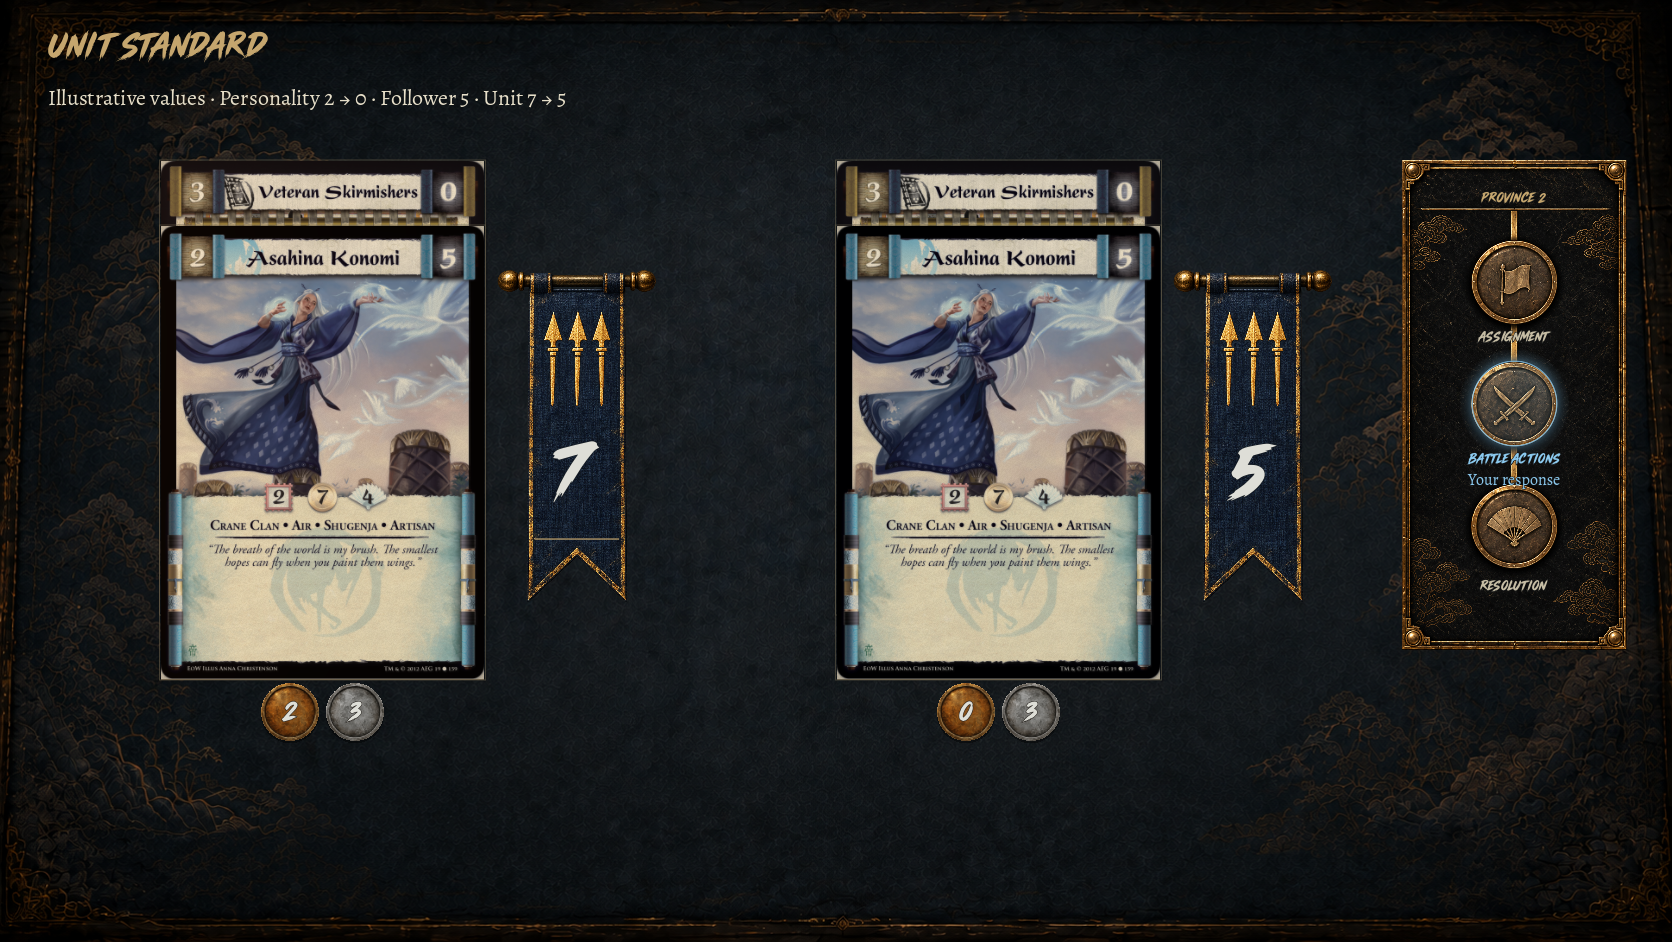
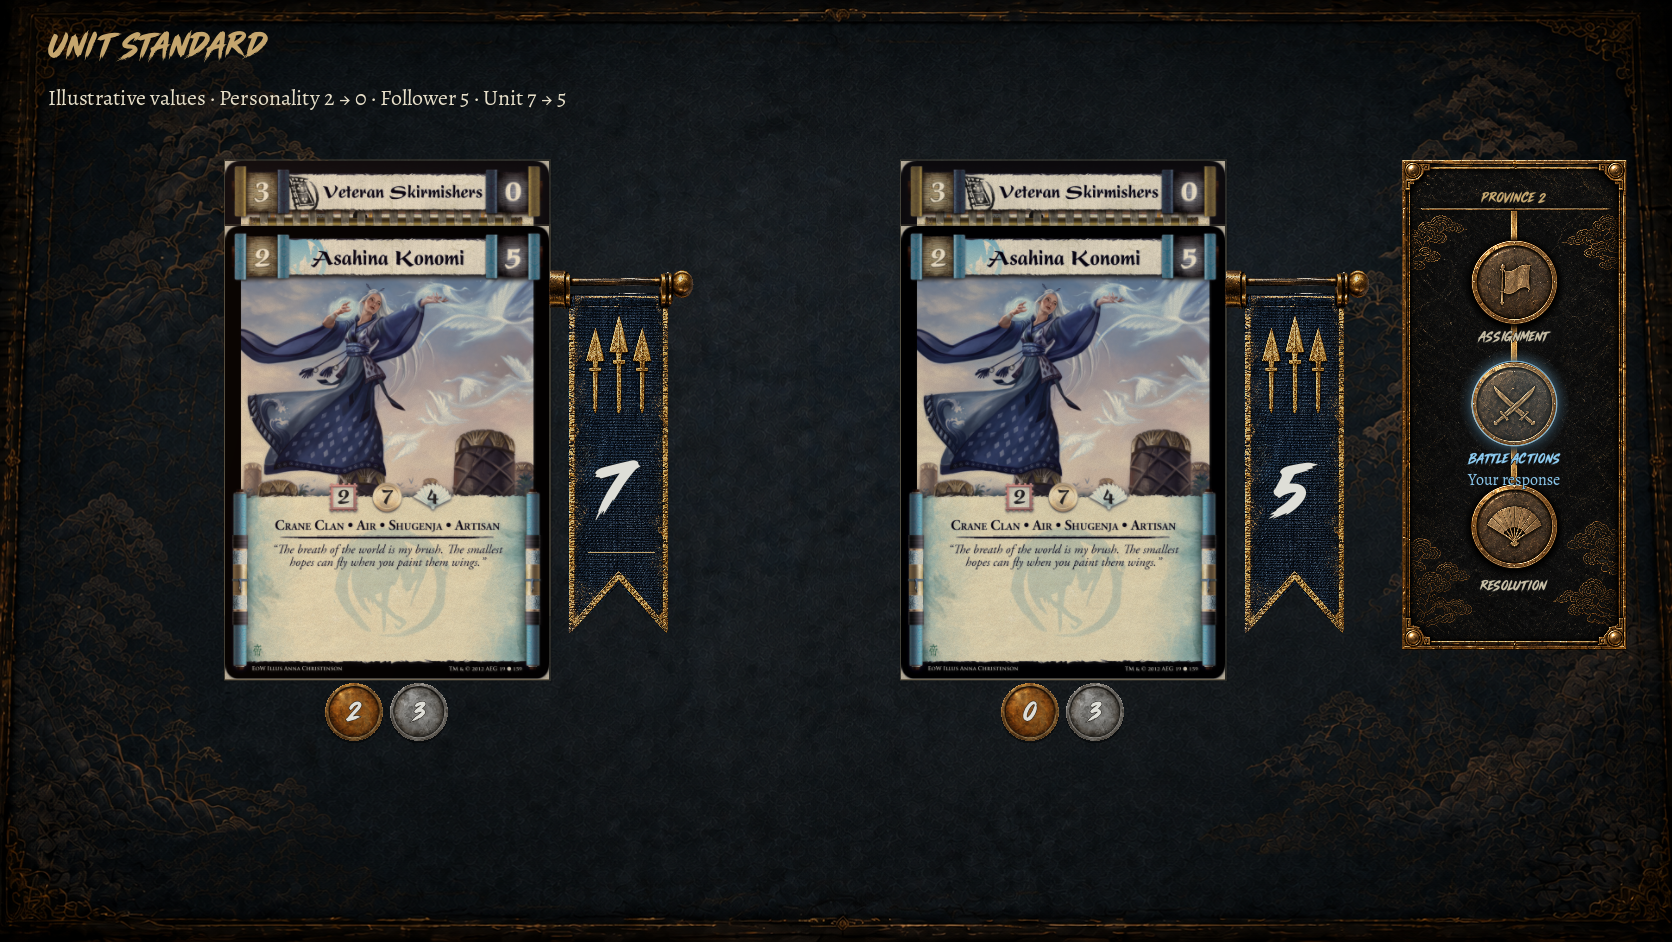
Verify mounted standard silhouettes and capture final native layouts

Changed region(s): [[0.0933, 0.1539, 0.4354, 0.8004], [0.4976, 0.1539, 0.8397, 0.8004]]

diff --git a/src/L5R.Client/UnitStandard.cs b/src/L5R.Client/UnitStandard.cs
@@ -9,6 +9,17 @@ public partial class UnitStandard : StatTokens
     public const float ReservedWidth = 74;
     private static Texture2D? _art;
 
+    private static readonly Vector2[][] Silhouettes = [
+        [new(198,50),new(255,49),new(273,62),new(279,83),new(276,183),new(263,205),new(198,203),new(193,190),new(194,68)],
+        [new(275,80),new(643,78),new(643,111),new(277,113)],
+        [new(268,144),new(633,143),new(648,154),new(646,184),new(270,183)],
+        [new(647,64),new(673,57),new(688,65),new(696,94),new(692,177),new(681,198),new(648,195),new(637,177),new(638,85)],
+        Enumerable.Range(0,48).Select(i=>new Vector2(729,106)+Vector2.FromAngle(i*Mathf.Tau/48)*new Vector2(47,57)).ToArray(),
+        [new(269,183),new(648,183),new(674,196),new(674,1513),new(667,1523),new(652,1513),new(474,1324),new(286,1517),new(274,1523),new(269,1510)]
+    ];
+    private Vector2 FromSource(Vector2 p) => _body.Position+(p-new Vector2(192,48))/new Vector2(586,1490)*_body.Size;
+    public IEnumerable<Vector2[]> ArtworkPolygonsOnViewport() => Silhouettes.Select(shape=>shape.Select(p=>ToViewport(FromSource(p))).ToArray());
+
     private Rect2 _body;
     public Vector2 MountOnViewport => ToViewport(Vector2.Zero);
     private Vector2 ToViewport(Vector2 p) => Projection?.Invoke(GetGlobalTransform() * p) ?? GetGlobalTransform() * p;
@@ -52,15 +63,10 @@ public partial class UnitStandard : StatTokens
         // the cloth or brass highlights. All hardware is one source artwork.
         void Piece(params Vector2[] uv)
         {
-            var vertices=uv.Select(p=>_body.Position+(p-new Vector2(192,48))/new Vector2(586,1490)*_body.Size).ToArray();
+            var vertices=uv.Select(FromSource).ToArray();
             DrawColoredPolygon(vertices,new Color(.86f,.84f,.80f),uv.Select(p=>p/art.GetSize()).ToArray(),art);
         }
-        Piece(new(198,50),new(255,49),new(273,62),new(279,83),new(276,183),new(263,205),new(198,203),new(193,190),new(194,68));
-        Piece(new(275,80),new(643,78),new(643,111),new(277,113));
-        Piece(new(268,144),new(633,143),new(648,154),new(646,184),new(270,183));
-        Piece(new(647,64),new(673,57),new(688,65),new(696,94),new(692,177),new(681,198),new(648,195),new(637,177),new(638,85));
-        var cap=Enumerable.Range(0,48).Select(i=>new Vector2(729,106)+Vector2.FromAngle(i*Mathf.Tau/48)*new Vector2(47,57)).ToArray(); Piece(cap);
-        Piece(new(269,183),new(648,183),new(674,196),new(674,1513),new(667,1523),new(652,1513),new(474,1324),new(286,1517),new(274,1523),new(269,1510));
+        foreach(var shape in Silhouettes) Piece(shape);
         var value = total.ToString(System.Globalization.CultureInfo.InvariantCulture);
         var fontSize = Math.Max(3, (int)(_body.Size.Y * .31f));
         while (fontSize > 2 && Palette.Title.GetStringSize(value, fontSize: fontSize).X > _body.Size.X * .61f) fontSize--;

diff --git a/src/L5R.Client/Main.UnitStandardChecks.cs b/src/L5R.Client/Main.UnitStandardChecks.cs
@@ -60,14 +60,20 @@ public partial class Main
             if(b.Card.UnitForce!=b.CardAnchor.Card.UnitForce) throw new Exception("Banner value differs from projected view");
             var rect=b.BodyRectOnViewport();
             if(!b.Inline && _cameraFitted && !_tableViewport.GetGlobalRect().Grow(2).Encloses(rect)) throw new Exception("Banner clipped in fitted view");
-            var polygon=b.BodyCornersOnViewport();
+            var polygons=b.ArtworkPolygonsOnViewport().ToArray();
             var face=b.CardAnchor.FaceCornersOnViewport();
             var mountDistance=Enumerable.Range(0,4).Min(i=>Geometry2D.GetClosestPointToSegment(b.MountOnViewport,face[i],face[(i+1)%4]).DistanceTo(b.MountOnViewport));
             if(mountDistance>.8f) throw new Exception("Standard brass mount detached from Personality rim");
             foreach(var c in _tiles.Where(c=>b.Inline ? _unitDetail.IsAncestorOf(c) : _world.IsAncestorOf(c)))
-                if(Geometry2D.IntersectPolygons(polygon,c.FaceCornersOnViewport()).Count>0) throw new Exception($"Banner {b.Card.Id} overlaps {c.Card.Id}");
-            foreach(var other in standards.Where(o=>o!=b)) if(rect.Intersects(other.BodyRectOnViewport())) throw new Exception("Banners collide");
-            foreach(var t in InspectableTokens.Where(t=>t.IsVisibleInTree())) if(rect.Intersects(TokenVisualRect(t))) throw new Exception("Banner covers Force/Chi token");
+                if(polygons.Any(p=>Geometry2D.IntersectPolygons(p,c.FaceCornersOnViewport()).Count>0)) throw new Exception($"Banner {b.Card.Id} overlaps {c.Card.Id}");
+            foreach(var other in standards.Where(o=>o!=b)) if(polygons.Any(p=>other.ArtworkPolygonsOnViewport().Any(q=>Geometry2D.IntersectPolygons(p,q).Count>0))) throw new Exception("Banners collide");
+            foreach(var t in InspectableTokens.Where(t=>t.IsVisibleInTree()))
+                for(var i=0;i<2;i++)
+                {
+                    var center=new Vector2(t.Diameter*(.5f+i*1.12f),t.Diameter/2);
+                    var disc=Enumerable.Range(0,48).Select(j=>t.GetGlobalTransform()*(center+Vector2.FromAngle(j*Mathf.Tau/48)*t.Diameter/2)).ToArray();
+                    if(polygons.Any(p=>Geometry2D.IntersectPolygons(p,disc).Count>0)) throw new Exception("Banner covers Force/Chi token");
+                }
         }
         if(_captureMode.Contains("standards") && (!_standardProbeDone || _standardProbeError is not null)) throw new Exception(_standardProbeError ?? "Native banner input incomplete");
         GD.Print($"UNIT_STANDARD_PASS: {standards.Length} server-bound banners; no card/token occlusion, clipping or collisions; nativeClick={_standardProbeDone}.");
